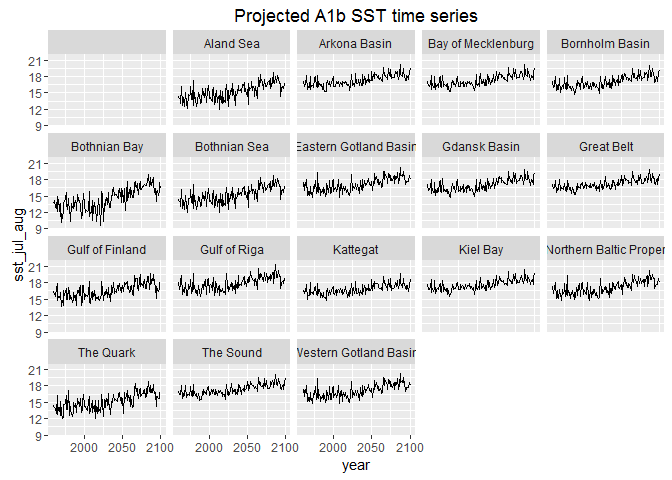
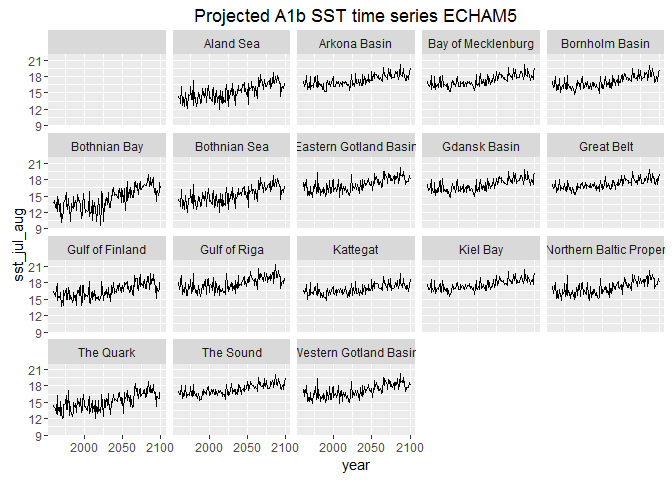
updated sst knit

Changed region(s): [[0.2812, 0.0, 0.7812, 0.0625]]

diff --git a/baltic2015/prep/pressures/climate_change/temperature_climatechange/temperature_climatechange_prep.md b/baltic2015/prep/pressures/climate_change/temperature_climatechange/temperature_climatechange_prep.md
@@ -92,7 +92,11 @@ Data are from the [BALTSEM model](http://www.balticnest.org/balticnest/thenestsy
 
 ### 2.3 Projections
 
-Projection scenarios use BALTSEM results run with forcing from the [ECHAM5](http://www.mpimet.mpg.de/en/science/models/echam/) global climate model for the scenario A1b
+There are two different projection scenarios.
+
+One set of projection scenarios use BALTSEM results run with forcing from the [ECHAM5](http://www.mpimet.mpg.de/en/science/models/echam/) global climate model for the scenario A1b. Project goes to year 2100.
+
+The second set of projection scenarios use BALTSEM results run with forcing from the [HADCM3](http://www.metoffice.gov.uk/research/modelling-systems/unified-model/climate-models/hadcm3) global climate model for the scenario A1b. Projection goes to year 2099.
 
 3. Pressure model
 -----------------
@@ -124,7 +128,9 @@ Apply basin values to BHI regions.
 
 hind_sst = read.csv(file.path(dir_tempcc, 'temp_data_database/hind_sst.csv'))
 
-proj_sst = read.csv(file.path(dir_tempcc,'temp_data_database/proj_sst.csv'))
+proj_sst = read.csv(file.path(dir_tempcc,'temp_data_database/proj_sst.csv')) ## projection from echam5
+
+proj2_sst = read.csv(file.path(dir_tempcc,'temp_data_database/proj2_sst.csv')) ##projection from hadcm3
 ```
 
 ### 4.2 Plot data
@@ -144,12 +150,23 @@ ggplot(hind_sst)+
 ggplot(proj_sst)+
   geom_line(aes(year,sst_jul_aug)) + 
   facet_wrap(~basin_name_holas)+
-  ggtitle("Projected A1b SST time series")
+  ggtitle("Projected A1b SST time series ECHAM5")
 ```
 
     ## Warning: Removed 2 rows containing missing values (geom_path).
 
 ![](temperature_climatechange_prep_files/figure-markdown_github/plot%20data-2.png)<!-- -->
+
+``` r
+ggplot(proj2_sst)+
+  geom_line(aes(year,sst_jul_aug)) + 
+  facet_wrap(~basin_name_holas)+
+  ggtitle("Projected A1b SST time series HADCM3")
+```
+
+    ## Warning: Removed 2 rows containing missing values (geom_path).
+
+![](temperature_climatechange_prep_files/figure-markdown_github/plot%20data-3.png)<!-- -->
 
 ### 4.3 Clean data
 
@@ -176,6 +193,18 @@ proj_sst %>% filter(is.na(year))
 
 ``` r
 proj_sst = proj_sst %>%
+           filter(!is.na(year))
+
+
+proj2_sst %>% filter(is.na(year))
+```
+
+    ##   basin_name_holas basin_name_baltsem basin_abb_baltsem year sst_jul_aug
+    ## 1                   Northern Kattegat                NK   NA          NA
+    ## 2                   Southern Kattegat                SK   NA          NA
+
+``` r
+proj2_sst = proj2_sst %>%
            filter(!is.na(year))
 ```
 
@@ -273,16 +302,18 @@ hist_min
 
 ### 4.6 Future max
 
-From projection data, extract the maximum Jul-Aug SST for each basin between 2020-2050
+From projection data, extract the maximum Jul-Aug SST for each basin between 2020-2050.
+
+Do for each of the projection datasets
 
 ``` r
-future_max = proj_sst %>%
+future_max1 = proj_sst %>%
              filter(year >= 2020 & year <= 2050)%>%
              select(basin_name_holas,sst_jul_aug)%>%
              group_by(basin_name_holas)%>%
              summarise(future_max = max(sst_jul_aug))%>%
              ungroup()
-future_max
+future_max1
 ```
 
     ## Source: local data frame [17 x 2]
@@ -307,17 +338,53 @@ future_max
     ## 16              The Sound   18.77648
     ## 17  Western Gotland Basin   18.85925
 
+``` r
+future_max2 = proj2_sst %>%
+             filter(year >= 2020 & year <= 2050)%>%
+             select(basin_name_holas,sst_jul_aug)%>%
+             group_by(basin_name_holas)%>%
+             summarise(future_max = max(sst_jul_aug))%>%
+             ungroup()
+future_max2
+```
+
+    ## Source: local data frame [17 x 2]
+    ## 
+    ##          basin_name_holas future_max
+    ##                    (fctr)      (dbl)
+    ## 1               Aland Sea   19.46610
+    ## 2            Arkona Basin   20.87886
+    ## 3      Bay of Mecklenburg   20.87886
+    ## 4          Bornholm Basin   20.98053
+    ## 5            Bothnian Bay   18.10057
+    ## 6            Bothnian Sea   19.46610
+    ## 7   Eastern Gotland Basin   21.96635
+    ## 8            Gdansk Basin   20.98053
+    ## 9              Great Belt   20.64271
+    ## 10        Gulf of Finland   20.97725
+    ## 11           Gulf of Riga   22.86933
+    ## 12               Kattegat   20.47663
+    ## 13               Kiel Bay   21.51768
+    ## 14 Northern Baltic Proper   21.96635
+    ## 15              The Quark   19.46610
+    ## 16              The Sound   20.67413
+    ## 17  Western Gotland Basin   21.96635
+
 ### 4.7 Plot min, max, and current
 
 ``` r
 ##join data for plot
 sst_data = full_join(sst_current,hist_min, by="basin_name_holas")%>%
-            full_join(.,future_max, by="basin_name_holas")
+            full_join(.,future_max1, by="basin_name_holas")%>%
+            full_join(.,future_max2, by="basin_name_holas") %>%
+            dplyr::rename(future_echam5=future_max.x,
+                          future_hadcm3 = future_max.y) %>%
+            gather(temp_type, temperature, -basin_name_holas)
 
 ggplot(sst_data)+
-  geom_point(aes(basin_name_holas, hist_min),color="blue",size=2.5)+
-   geom_point(aes(basin_name_holas, current_sst),color="black",size=2.5)+
-   geom_point(aes(basin_name_holas, future_max),color="red",size=2.5)+
+  geom_point(aes(basin_name_holas,temperature, colour = temp_type, shape=temp_type), size=2)+
+  scale_shape_manual(values=c(19,19,17,19))+
+  scale_colour_manual(values = c("black","red","orange","blue"))+
     theme(axis.text.x = element_text(colour="grey20", size=8, angle=90, 
                                     hjust=.5, vjust=.5, face = "plain"))+
   ggtitle("Basin Jul-Aug SST Historic Min, Current, Future Max")
@@ -327,36 +394,40 @@ ggplot(sst_data)+
 
 ### 4.8 Rescale data for pressure layer
 
-Some current temperatures are warmer than the near future max
+Some current temperatures are warmer than the near future max if use the ECHAM5 projection. HADCM3 places current temperatures more in the middle of the range.
+
+**Use HADCM3 projection**
 
 ``` r
  sst_rescale = sst_data%>%
-               mutate(sst_rescale = pmin(1,(current_sst - hist_min) / (future_max - hist_min)))
+               spread(.,temp_type,temperature)%>%
+               mutate(sst_rescale = pmin(1,(current_sst - hist_min) / (future_hadcm3 - hist_min)))
 
  sst_rescale
 ```
 
-    ## Source: local data frame [17 x 5]
+    ## Source: local data frame [17 x 6]
     ## 
-    ##          basin_name_holas current_sst hist_min future_max sst_rescale
-    ##                    (fctr)       (dbl)    (dbl)      (dbl)       (dbl)
-    ## 1               Aland Sea    16.01649 12.20052   16.80924   0.8279878
-    ## 2            Arkona Basin    18.30592 14.39512   18.98328   0.8523686
-    ## 3      Bay of Mecklenburg    18.30592 14.39512   18.98328   0.8523686
-    ## 4          Bornholm Basin    17.76797 14.09698   18.24436   0.8851348
-    ## 5            Bothnian Bay    15.31162 11.53649   16.63948   0.7397881
-    ## 6            Bothnian Sea    16.01649 12.20052   16.80924   0.8279878
-    ## 7   Eastern Gotland Basin    18.95239 14.57497   18.85925   1.0000000
-    ## 8            Gdansk Basin    17.76797 14.09698   18.24436   0.8851348
-    ## 9              Great Belt    18.25153 15.24938   18.77748   0.8509265
-    ## 10        Gulf of Finland    18.80333 13.60346   18.30973   1.0000000
-    ## 11           Gulf of Riga    19.07293 15.14278   19.70075   0.8622598
-    ## 12               Kattegat    18.44557 14.89529   18.59230   0.9603133
-    ## 13               Kiel Bay    18.38652 15.68411   19.39270   0.7286890
-    ## 14 Northern Baltic Proper    18.95239 14.57497   18.85925   1.0000000
-    ## 15              The Quark    16.01649 12.20052   16.80924   0.8279878
-    ## 16              The Sound    18.20104 14.99148   18.77648   0.8479676
-    ## 17  Western Gotland Basin    18.95239 14.57497   18.85925   1.0000000
+    ##          basin_name_holas current_sst future_echam5 future_hadcm3 hist_min
+    ##                    (fctr)       (dbl)         (dbl)         (dbl)    (dbl)
+    ## 1               Aland Sea    16.01649      16.80924      19.46610 12.20052
+    ## 2            Arkona Basin    18.30592      18.98328      20.87886 14.39512
+    ## 3      Bay of Mecklenburg    18.30592      18.98328      20.87886 14.39512
+    ## 4          Bornholm Basin    17.76797      18.24436      20.98053 14.09698
+    ## 5            Bothnian Bay    15.31162      16.63948      18.10057 11.53649
+    ## 6            Bothnian Sea    16.01649      16.80924      19.46610 12.20052
+    ## 7   Eastern Gotland Basin    18.95239      18.85925      21.96635 14.57497
+    ## 8            Gdansk Basin    17.76797      18.24436      20.98053 14.09698
+    ## 9              Great Belt    18.25153      18.77748      20.64271 15.24938
+    ## 10        Gulf of Finland    18.80333      18.30973      20.97725 13.60346
+    ## 11           Gulf of Riga    19.07293      19.70075      22.86933 15.14278
+    ## 12               Kattegat    18.44557      18.59230      20.47663 14.89529
+    ## 13               Kiel Bay    18.38652      19.39270      21.51768 15.68411
+    ## 14 Northern Baltic Proper    18.95239      18.85925      21.96635 14.57497
+    ## 15              The Quark    16.01649      16.80924      19.46610 12.20052
+    ## 16              The Sound    18.20104      18.77648      20.67413 14.99148
+    ## 17  Western Gotland Basin    18.95239      18.85925      21.96635 14.57497
+    ## Variables not shown: sst_rescale (dbl)
 
 ### 4.9 Assign basin values to BHI regions
 
@@ -385,6 +456,7 @@ sst_rescale = sst_rescale %>%
 ``` r
 ggplot(sst_rescale)+
   geom_point(aes(rgn_id,pressure_score), size=2.5)+
+  ylim(0,1)+
    ggtitle("SST pressure data layer")
 ```
 
